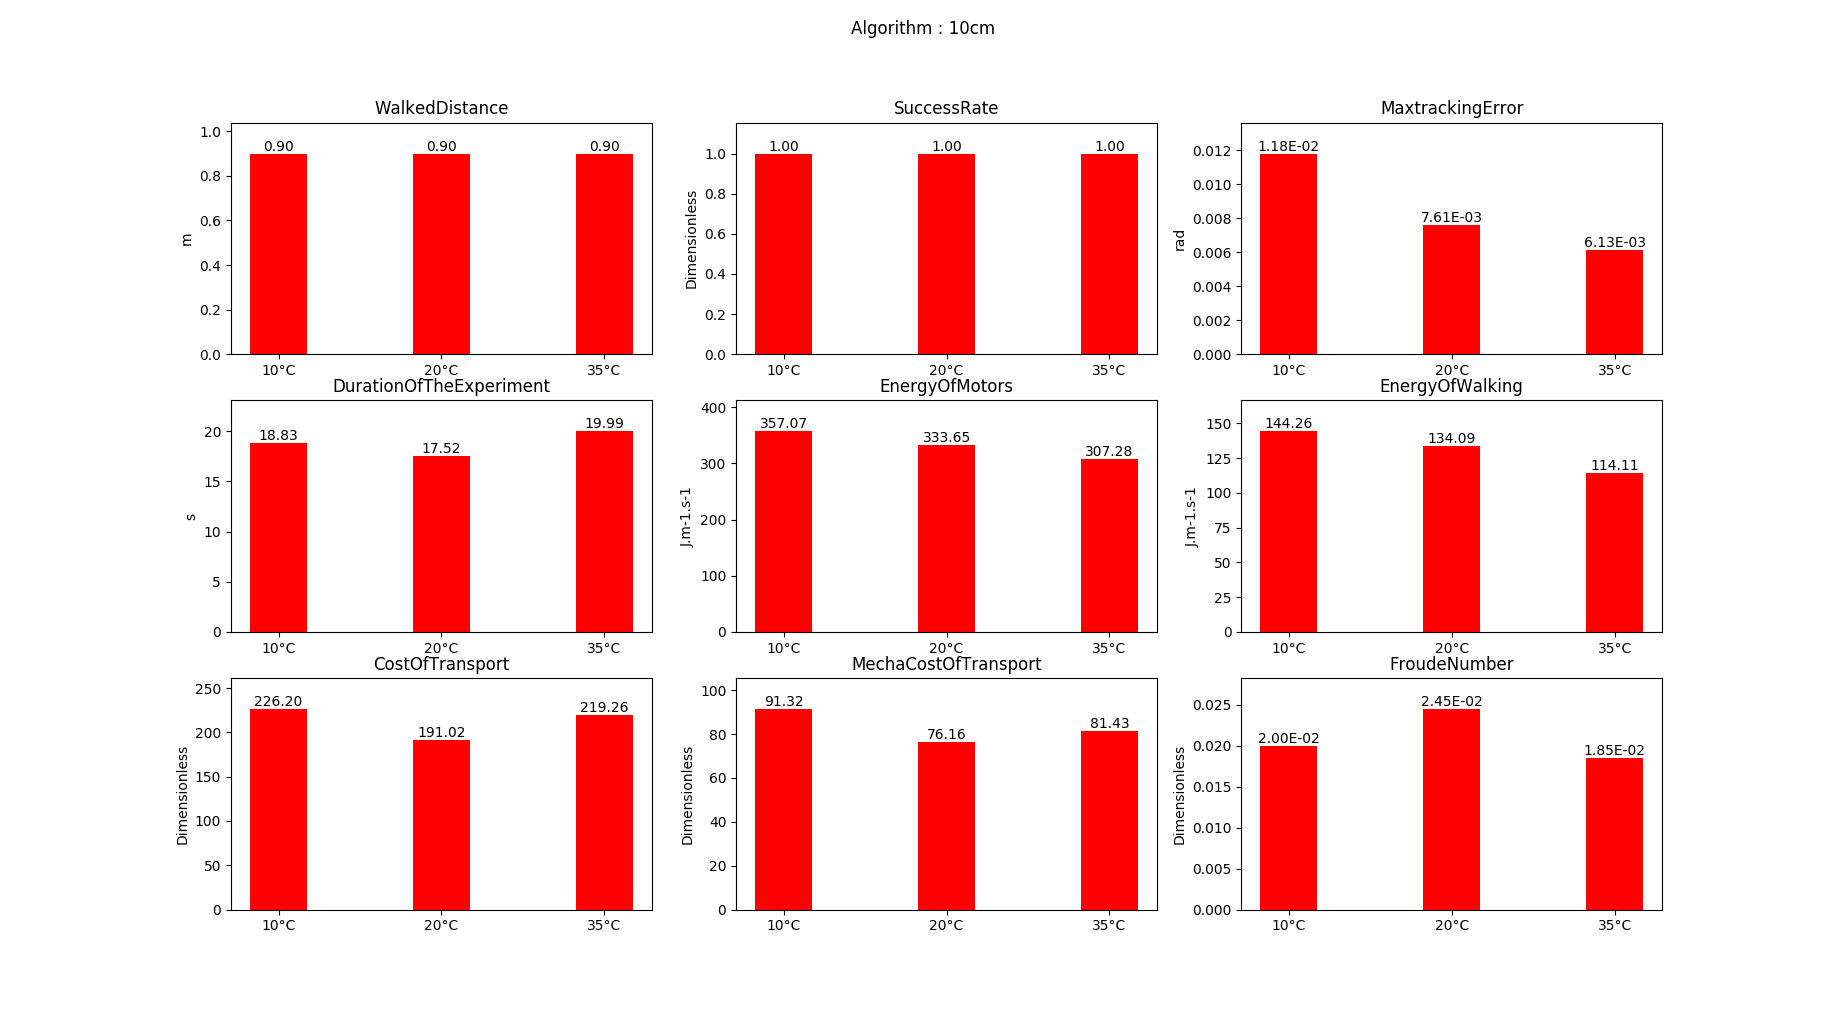
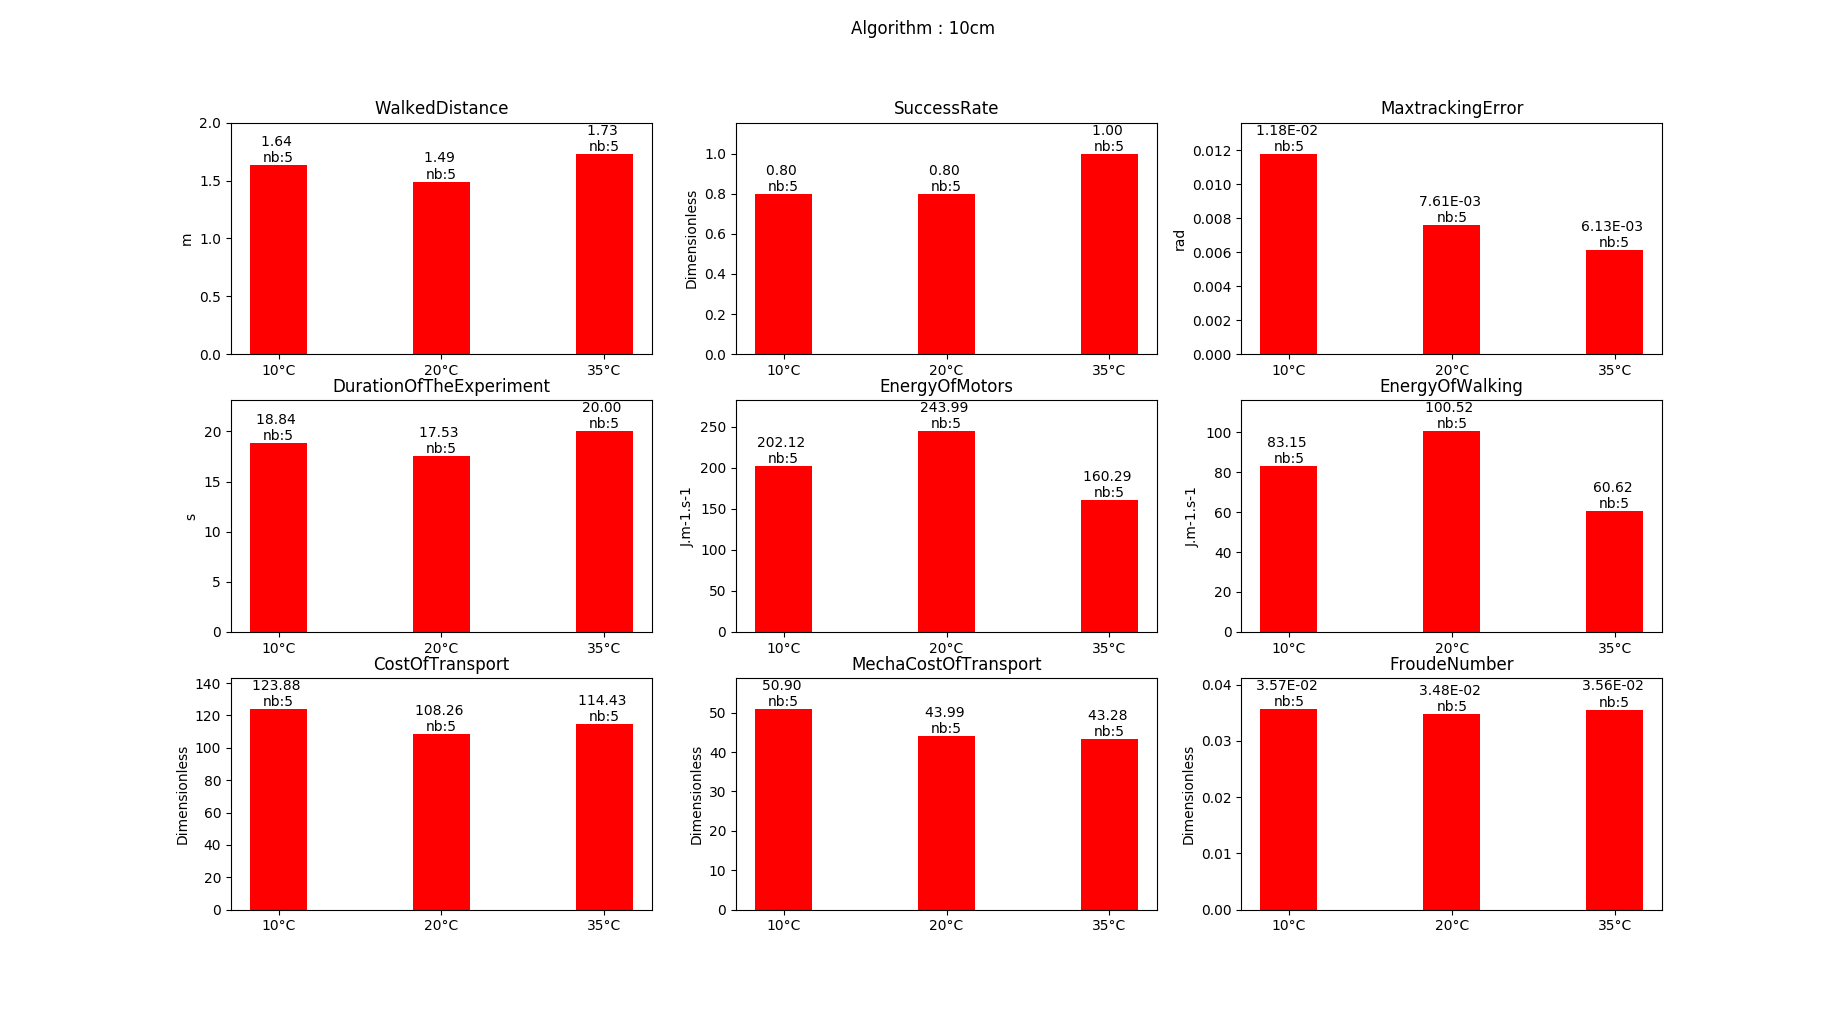
improve selected values, change threshold for falling

diff --git a/src/make_plot.py b/src/make_plot.py
@@ -7,6 +7,7 @@ reload(sys)
 sys.setdefaultencoding('utf8')
 import matplotlib.pyplot as plt
 from decimal import Decimal
+from math import *
 
 class XP :
     def __init__(self):
@@ -141,35 +142,144 @@ def discrimin_xp(header_file,header_line,list_lines_split):
 
 def mean_xp(xp_list) :
     list_mean_xp = []
+    xp_index_to_rm =[]
     for xp in xp_list :
-        list_mean_xp.append((np.mean(xp.WalkedDistance_list),
-                        len(xp.WalkedDistance_list)/len(xp.Fall_list), # success rate
-                        np.mean(xp.MaxtrackingError_list),
-                        np.mean(xp.DurationOfTheExperiment_list),
-                        np.mean(xp.EnergyOfMotors_list),
-                        np.mean(xp.EnergyOfWalking_list),
-                        np.mean(xp.CostOfTransport_list),
-                        np.mean(xp.MechaCostOfTransport_list),
-                        np.mean(xp.Froude_list),
-                        xp.algo,
-                        xp.setup))
-        print "np.mean(xp.CostOfTransport_list) : ",np.mean(xp.CostOfTransport_list)
-        if np.mean(xp.CostOfTransport_list) < 0 :
-            print "list : " , xp.CostOfTransport_list
-            print xp
-    print "list_mean_xp : ",list_mean_xp
+        print "xxxxxxxxxxxxxxxxxxxxxxxxxxxxxxxxxxxxxxxxxxxxxxxxx"
+        print xp.algo," ", xp.setup
+        print " LEN : ",len(xp.WalkedDistance_list),len(xp.Fall_list),len(xp.MaxtrackingError_list),len(xp.DurationOfTheExperiment_list),len(xp.EnergyOfWalking_list),len(xp.EnergyOfMotors_list),len(xp.CostOfTransport_list),len(xp.MechaCostOfTransport_list),len(xp.Froude_list)
+        print "before rm_absurd_values"
+        skip_this_xp = rm_absurd_values(xp)
+        print " LEN : ",len(xp.WalkedDistance_list),len(xp.Fall_list),len(xp.MaxtrackingError_list),len(xp.DurationOfTheExperiment_list),len(xp.EnergyOfWalking_list),len(xp.EnergyOfMotors_list),len(xp.CostOfTransport_list),len(xp.MechaCostOfTransport_list),len(xp.Froude_list)
+        print "after rm_absurd_values"
+        temp_Fall_list = {i: xp.Fall_list.count(i) for i in xp.Fall_list}
+        print temp_Fall_list
+        try :
+            nb_no_fall = temp_Fall_list[False] # hasn't  fallen
+        except:
+            try :
+                nb_no_fall = len(xp.WalkedDistance_list) - temp_Fall_list[True]
+            except :
+                print "!!!!! no usable value in this xp : ", xp.algo, " ", xp.setup
+                skip_this_xp = True
+        #print "nb_of_xp : ", nb_of_xp
+        if not skip_this_xp :
+            nb_of_xp = len(xp.WalkedDistance_list)
+            #print "nb_of_xp : ", nb_of_xp
+            list_mean_xp.append((np.mean(xp.WalkedDistance_list),
+                            float(nb_no_fall)/nb_of_xp, # success rate
+                            np.mean(xp.MaxtrackingError_list),
+                            np.mean(xp.DurationOfTheExperiment_list),
+                            np.mean(xp.EnergyOfMotors_list),
+                            np.mean(xp.EnergyOfWalking_list),
+                            np.mean(xp.CostOfTransport_list),
+                            np.mean(xp.MechaCostOfTransport_list),
+                            np.mean(xp.Froude_list),
+                            xp.algo,
+                            xp.setup,
+                            nb_of_xp))
+            print "success rate for ",xp.algo," ", xp.setup," : ",nb_no_fall
+            print "xp.WalkedDistance_list :", xp.WalkedDistance_list
+        else :
+            xp_index_to_rm.append(xp_list.index(xp))
+        #print "nb_of_xp : ", nb_of_xp
+    #remove xp with no valid trials:
+    for index in reversed(xp_index_to_rm) :
+        print "removed xp : ",xp_list[index].algo," ",xp_list[index].setup
+        xp_list.pop(index)
+    for idx,xp in enumerate(xp_list):
+        print xp.algo," ",xp.setup
+        if xp.algo=="15cm" and xp.setup=="10°C":
+            print "success rate for 15cm 10deg : ", list_mean_xp[idx]
+
+    #print "list_mean_xp : ",list_mean_xp
     return list_mean_xp
+
+def rm_absurd_values(xp):
+    absurd_index_list = []
+    #print "before xp.WalkedDistance_list : ", xp.WalkedDistance_list
+    if xp.algo=="kawada":
+        pass
+    else :
+        for distance in (xp.WalkedDistance_list):
+            if distance == 0 :
+                absurd_index_list.append(xp.WalkedDistance_list.index(distance))
+                print "+ experiment will be removed in ", xp.algo, " ", xp.setup
+                print "+ walked distance is 0 , index : ",absurd_index_list[-1]
+        for absurd_index in reversed(absurd_index_list):
+            xp.WalkedDistance_list.pop(absurd_index)
+            xp.Fall_list.pop(absurd_index)
+            xp.MaxtrackingError_list.pop(absurd_index)
+            xp.DurationOfTheExperiment_list.pop(absurd_index)
+            xp.EnergyOfMotors_list.pop(absurd_index)
+            xp.EnergyOfWalking_list.pop(absurd_index)
+            xp.CostOfTransport_list.pop(absurd_index)
+            xp.MechaCostOfTransport_list.pop(absurd_index)
+            xp.Froude_list.pop(absurd_index)
+    if len(xp.WalkedDistance_list) == 0:
+        return True  # skip_this_xp
+
+    absurd_index_list = []
+    #print "before duration over 200 : ", xp.WalkedDistance_list
+    if xp.algo=="kawada" or xp.setup=="Slopes":
+        pass
+    else :
+        for duration in (xp.DurationOfTheExperiment_list):
+            if duration > 200:
+                absurd_index_list.append(xp.DurationOfTheExperiment_list.index(duration))
+                print "absurd index : ", absurd_index_list[-1]
+                print "# experiment has been removed in ", xp.algo, " ", xp.setup
+                print "# duration over 200 (Translations and slopes excluded) : ", duration
+        for absurd_index in reversed(absurd_index_list):
+            xp.WalkedDistance_list.pop(absurd_index)
+            xp.Fall_list.pop(absurd_index)
+            xp.MaxtrackingError_list.pop(absurd_index)
+            xp.DurationOfTheExperiment_list.pop(absurd_index)
+            xp.EnergyOfMotors_list.pop(absurd_index)
+            xp.EnergyOfWalking_list.pop(absurd_index)
+            xp.CostOfTransport_list.pop(absurd_index)
+            xp.MechaCostOfTransport_list.pop(absurd_index)
+            xp.Froude_list.pop(absurd_index)
+    if len(xp.WalkedDistance_list)==0:
+        return True #skip_this_xp
+
+    absurd_index_list = []
+    duration_variance = np.var(xp.DurationOfTheExperiment_list)
+    duration_mean = np.mean(xp.DurationOfTheExperiment_list)
+    #print "xp.DurationOfTheExperiment_list : ", xp.DurationOfTheExperiment_list
+    for duration in (xp.DurationOfTheExperiment_list) :
+        if abs(duration-duration_mean) > 3*sqrt(duration_variance):
+            absurd_index_list.append(xp.DurationOfTheExperiment_list.index(duration))
+            print "absurd index : ", absurd_index_list[-1]
+            print "* experiment has been removed in ",xp.algo," ",xp.setup
+            print "* duration over 3 sigma : ",abs(duration-duration_mean)," > 3 * ",sqrt(duration_variance)
+    for absurd_index in reversed(absurd_index_list):
+        xp.WalkedDistance_list.pop(absurd_index)
+        xp.Fall_list.pop(absurd_index)
+        xp.MaxtrackingError_list.pop(absurd_index)
+        xp.DurationOfTheExperiment_list.pop(absurd_index)
+        xp.EnergyOfMotors_list.pop(absurd_index)
+        xp.EnergyOfWalking_list.pop(absurd_index)
+        xp.CostOfTransport_list.pop(absurd_index)
+        xp.MechaCostOfTransport_list.pop(absurd_index)
+        xp.Froude_list.pop(absurd_index)
+    #print "xp.DurationOfTheExperiment_list : ", xp.DurationOfTheExperiment_list
+    if len(xp.WalkedDistance_list)==0:
+        return True #skip_this_xp
+    else :
+        return False #can continue this xp
+
 
 def plot_graph(list_mean_xp,xp_list) :
     xp_tmp=XP()
-    for key in xp_tmp.algo_dico.keys() :#["hwalk"] :#xp_tmp.algo_dico.keys() :
+    for key in xp_tmp.algo_dico.keys() : #loop on algo
         fig, ax = plt.subplots(3, 3)
         plt.suptitle("Algorithm : "+key)
-        jk=0
-        for j in range(3):
-            for k in range(3):
-                y_list=[xp[jk] for xp in list_mean_xp if xp_list[list_mean_xp.index(xp)].algo==key] #cot in hwalk
-                setup_list=[xp[-1] for xp in list_mean_xp if xp_list[list_mean_xp.index(xp)].algo==key]#setpu in hwalk
+        jk=0 #place of suplot
+        for j in range(3): #1st loop place subplot
+            for k in range(3): #2nd loop subplot
+                y_list=[xp[jk] for xp in list_mean_xp if xp_list[list_mean_xp.index(xp)].algo==key] # get mean values for algo
+                setup_list=[xp[-2] for xp in list_mean_xp if xp_list[list_mean_xp.index(xp)].algo==key]#get setup found for algo
+                nb_of_xp_list=[xp[-1] for xp in list_mean_xp if xp_list[list_mean_xp.index(xp)].algo == key]  # get setup found for algo
                 print "y_list",y_list
                 #plt.plot(y_list)
                 #plt.show()
@@ -191,9 +301,9 @@ def plot_graph(list_mean_xp,xp_list) :
                 print "setup_tuple : ",setup_tuple
                 ax[j, k].set_xticklabels(setup_tuple)
                 ax[j, k].set_ylim((ax[j, k].get_ylim()[0],ax[j, k].get_ylim()[1]*1.1))
+                nb_points = len(y_list)
 
-
-                autolabel(rects1,ax,j,k)
+                autolabel(rects1,ax,j,k,nb_of_xp_list)
 
                 plt.show(block=False)
                 jk+=1
@@ -201,7 +311,7 @@ def plot_graph(list_mean_xp,xp_list) :
 
     return
 
-def autolabel(rects,ax,j,k):
+def autolabel(rects,ax,j,k,nb_of_xp_list):
     """
     Attach a text label above each bar displaying its height
     """
@@ -209,11 +319,11 @@ def autolabel(rects,ax,j,k):
         height = rect.get_height()
         if height> 0.1:
             ax[j, k].text(rect.get_x() + rect.get_width()/2., height,
-                    '%s' % str('{0:.2f}'.format(height)),
+                    '%s \nnb:%s' % (str('{0:.2f}'.format(height)),str(nb_of_xp_list[rects.index(rect)])),
                     ha='center', va='bottom')
         else:
             ax[j, k].text(rect.get_x() + rect.get_width() / 2., height,
-                      '%s' % str('{0:.2E}'.format(height)),
+                      '%s \nnb:%s' % (str('{0:.2E}'.format(height)),str(nb_of_xp_list[rects.index(rect)])),
                       ha='center', va='bottom')
 
 def close_figures():

diff --git a/src/experience.cc b/src/experience.cc
@@ -353,7 +353,7 @@ int Experience::readData()
 
   // dump all the files
   string dump ;
-  dump = experienceName_+"_q.dat" ;
+  /*dump = experienceName_+"_q.dat" ;
   dump_.dump( dump , q_ ) ;
 
   dump = experienceName_ + "_dq.dat" ;
@@ -388,7 +388,7 @@ int Experience::readData()
 
   dump = experienceName_+"_right_foot_wrench_raw.dat" ;
   dump_.dump( dump , right_foot_wrench_tmp   ) ;
-#endif
+#endif*/
   data_astate_.clear();
   data_ref_.clear();
   return 0;
@@ -477,7 +477,7 @@ int Experience::defineBeginEndIndexes()
 #endif
   }
   // dump all the files
-  string dump ;
+ /* string dump ;
   dump = experienceName_+"_q_cut.dat" ;
   dump_.dump( dump , q_ ) ;
   dump = experienceName_ + "_dq_cut.dat" ;
@@ -489,7 +489,7 @@ int Experience::defineBeginEndIndexes()
   dump_.dump( dump , left_foot_wrench_   ) ;
   dump = experienceName_+"_right_foot_wrench_cut.dat" ;
   dump_.dump( dump , right_foot_wrench_   ) ;
-#endif
+#endif*/
   return 0 ;
 }
 
@@ -514,8 +514,9 @@ int Experience::computeTheEnergy()
   vector< vector<double> > energyOfWalk ( N , vector<double> (ddl_,0) );
   integration(powerOfWalk_,energyOfWalk);
 
-  if (walkedDistanced_ <= 0)
+  if (walkedDistanced_ < 0.005)
   {
+    walkedDistanced_= 0;
     EnergyOfMotor_J_m_s_= 0;
     EnergyOfWalking_J_m_s_ = 0;
     MechaCostOfTransport_ = 0;
@@ -642,7 +643,7 @@ int Experience::detectFall()
     //assert(avrg_err_window<0.024);
   }
 
-  if (maxTrackingError_>0.007)
+  if (maxTrackingError_>0.011)
   {
 //    cout << "max_error = " << max_error
 //         << " between time=[" << time_max_error << ", "
@@ -718,10 +719,10 @@ int Experience::odometrie()
   contact_detection(right_foot_wrench_,right_foot_isInContact_);
   contact_detection(left_foot_wrench_,left_foot_isInContact_);
   string dump2 ;
-  dump2 = experienceName_+"_lf_isInContact_cut.dat" ;
+  /*dump2 = experienceName_+"_lf_isInContact_cut.dat" ;
   dump_.dump( dump2, left_foot_isInContact_);
   dump2 = experienceName_+"_rf_isInContact_cut.dat" ;
-  dump_.dump( dump2 , right_foot_isInContact_);
+  dump_.dump( dump2 , right_foot_isInContact_);*/
 
   // reset config vectors
   world_M_base_.resize(N);
